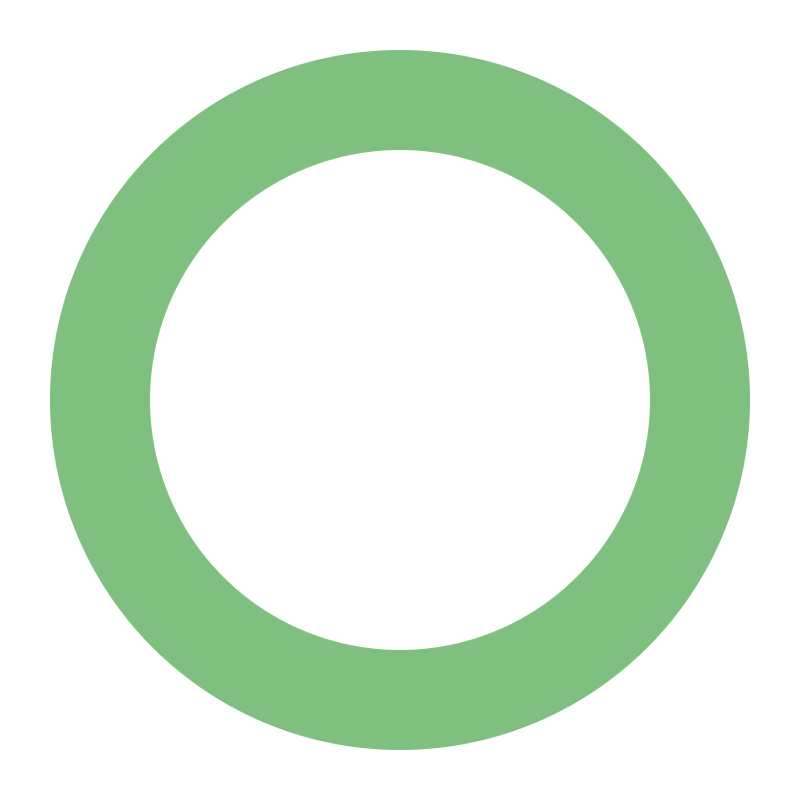
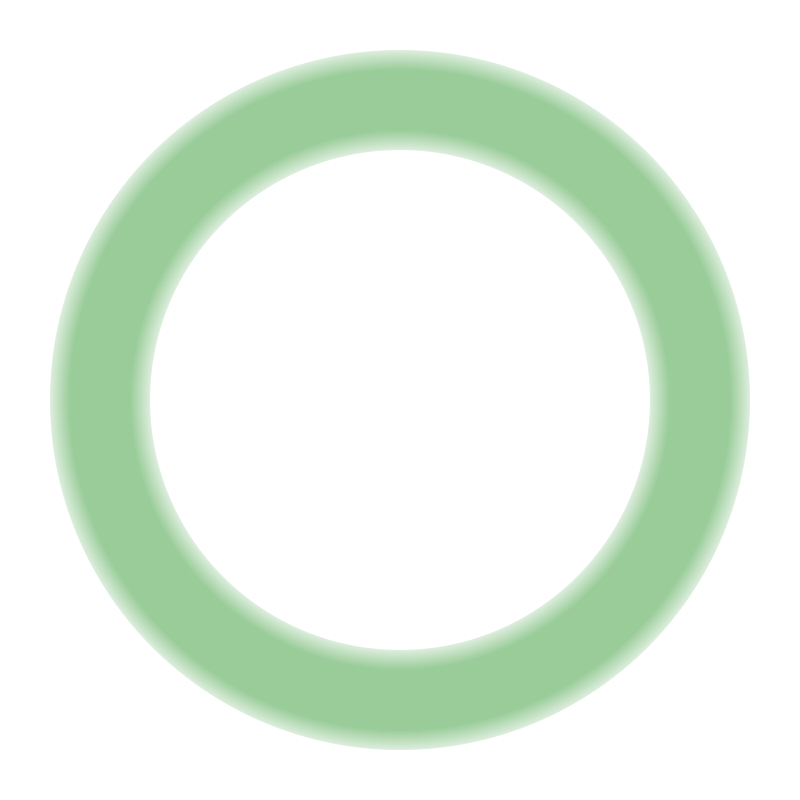
0.0.4
UI: Update Vignette
Rhythm: Add fading
Scripts: Add Util
Physics: Add frictionless material

Changed region(s): [[0.0625, 0.0625, 0.9375, 0.9375]]

diff --git a/Assets/Scripts/Rhythm/RhythmController.cs b/Assets/Scripts/Rhythm/RhythmController.cs
@@ -26,11 +26,12 @@ public class RhythmController : MonoBehaviour
         {
             if (transform.childCount != 0)
             {
-                GameObject next = transform.GetChild(0).transform.gameObject;
-                if (Input.GetButtonUp(next.name))
+                Transform next = transform.GetChild(0);
+                ApproachController approach = next.GetComponent<ApproachController>();
+                if (Input.GetButtonUp(next.name) && !approach.Reflected && Util.InBounds(next.localScale.x, 0.2f, 0.5f))
                 {
-                    next.GetComponent<ApproachController>().Reflected = true;
-                    next.transform.SetAsLastSibling();
+                    approach.Reflected = true;
+                    next.SetAsLastSibling();
                 }
             }
         }
@@ -41,9 +42,9 @@ public class RhythmController : MonoBehaviour
         if (sprites.TryGetValue(id, out Sprite sprite))
         {
             GameObject approach = new(id, typeof(SpriteRenderer), typeof(ApproachController));
-            approach.transform.SetParent(transform);
-            approach.transform.localPosition = Vector2.zero;
+            approach.transform.SetParent(transform, false);
             approach.GetComponent<SpriteRenderer>().sprite = sprite;
+            approach.GetComponent<SpriteRenderer>().color = new(1f, 1f, 1f, 0f);
         }
         else
         {

diff --git a/Assets/Scripts/Rhythm/ApproachController.cs b/Assets/Scripts/Rhythm/ApproachController.cs
@@ -10,15 +10,19 @@ public class ApproachController : MonoBehaviour
 
     void Update()
     {
-        float scaleChange = (Reflected ? 1 : -1) * approachSpeed * Time.deltaTime;
-        transform.localScale += (Vector3) Vector2.one * scaleChange;
-        bool shouldDestroy = Reflected
-            ? transform.localScale.x > 0.7f
-            : transform.localScale.x < 0.2f;
-        if (shouldDestroy)
+        float scaleChange = (Reflected ? 1.5f : -1f) * approachSpeed * Time.deltaTime;
+        transform.localScale += (Vector3)Vector2.one * scaleChange;
+        Color color = GetComponent<SpriteRenderer>().color;
+        float before = color.a;
+        if (!Reflected && transform.localScale.x < 0.3f)
+        {
+            scaleChange *= -2f;
+        }
+        color.a = Util.ToBounds(color.a - scaleChange * 2f, 0f, 1f);
+        GetComponent<SpriteRenderer>().color = color;
+        if (color.a == 0f)
         {
             Object.Destroy(gameObject);
         }
-        
     }
 }

diff --git a/Assets/Scripts/Util.cs b/Assets/Scripts/Util.cs
@@ -1,0 +1,16 @@
+using System.Collections;
+using System.Collections.Generic;
+using UnityEngine;
+
+public class Util
+{
+    public static float ToBounds(float val, float min, float max)
+    {
+        return Mathf.Min(Mathf.Max(val, min), max);
+    }
+
+    public static bool InBounds(float val, float min, float max)
+    {
+        return val >= min && val <= max;
+    }
+}
